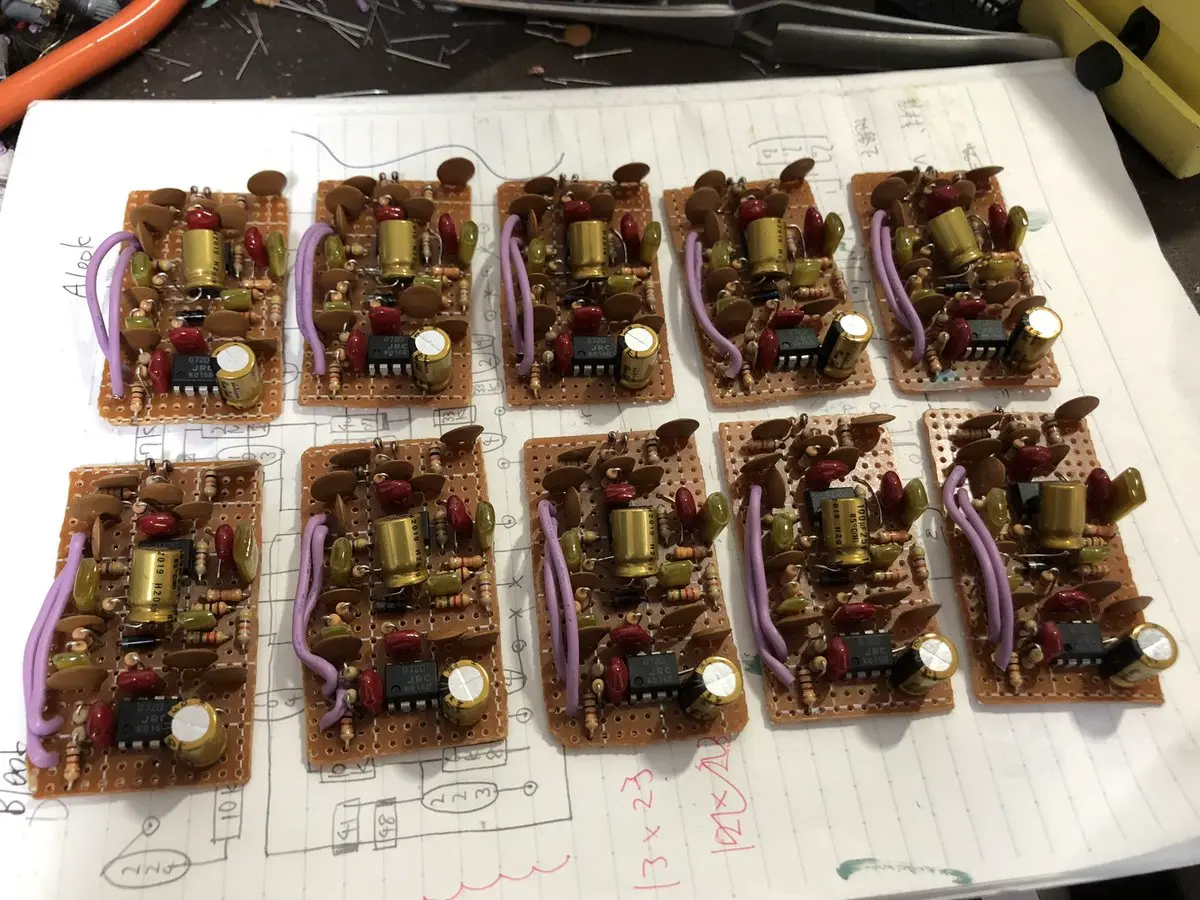
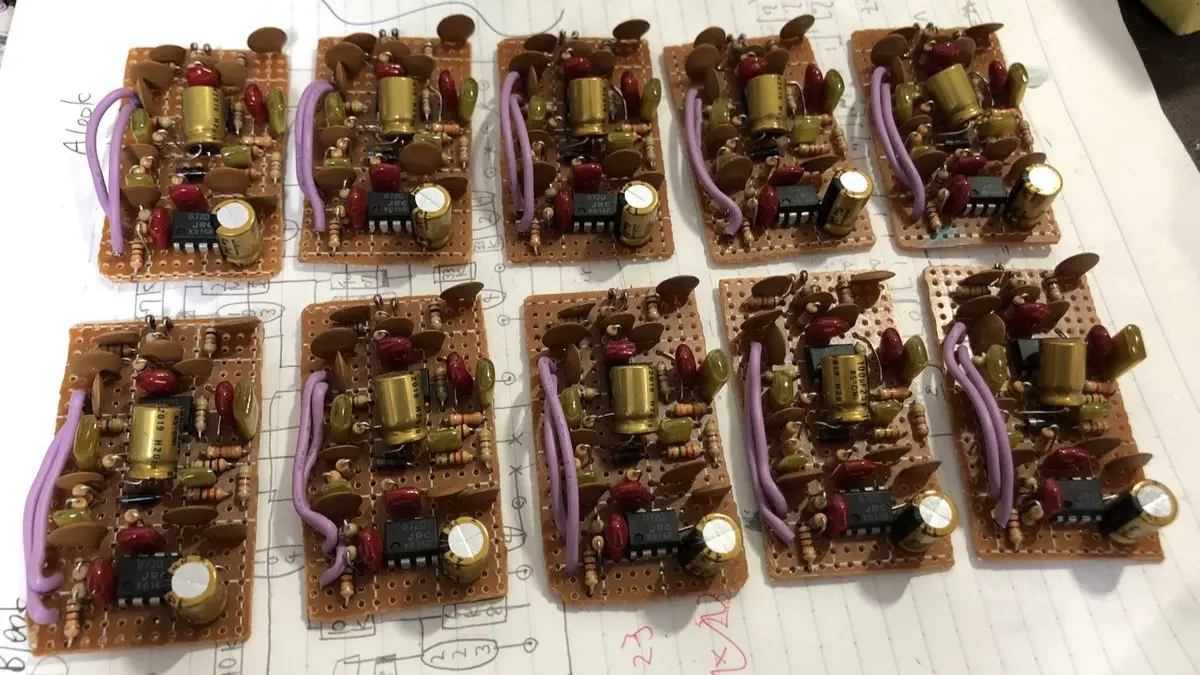
feat: いったん最後まで作成

diff --git a/1.makepedals01/04-outro.md b/1.makepedals01/04-outro.md
@@ -1,0 +1,69 @@
+---
+layout: two-cols
+hideInToc: true
+---
+
+::left::
+
+<div class="text-right">SDGs 999：ミニケースに真空管を載せよう</div>
+
+<br><br><br><br><br><br>
+
+# 音出し、あわよくば完成
+
+::right::
+
+<div style="display: flex; justify-content: flex-end;">
+  <img src="./images/my_tube.webp" width="90%"/>
+</div>
+
+---
+
+# 音出し
+
+<br>
+
+## 無事に鳴った人：まずはおめでとう🎉
+
+適宜ホットボンドで固めて、裏蓋にサインを書こう
+
+<br>
+
+## 鳴らなかった人：エフェクター作り本編のスタート😍
+
+テスターとワニ口クリップでデバッグしよう
+
+詳しくはエフェクター作ろ特論を受講してください
+
+---
+
+# お疲れ様でした
+
+<br>
+
+自分のはんだづけした小さな部品一つ一つを音が通って出ていって、
+
+さらにそれを演奏すると皆さまのお耳に入っていくのですごい
+
+大変アツくてワロタ　と常日頃より思っています
+
+<br>
+
+ハードウェアを作る楽しさが少しでも伝わったなら幸いです！
+
+---
+layout: two-cols
+hideInToc: true
+---
+
+::left::
+
+<br><br><br><br><br><br><br>
+
+# おしまい
+
+::right::
+
+<div style="display: flex; justify-content: flex-end;">
+  <img src="./images/goodbye.webp" width="100%"/>
+</div>

diff --git a/1.makepedals01/03-wiring.md b/1.makepedals01/03-wiring.md
@@ -1,0 +1,70 @@
+---
+layout: two-cols
+hideInToc: true
+---
+
+::left::
+
+<div class="text-right">きれいに配線しておいて良かった…の例</div>
+
+<br><br><br><br><br><br>
+
+# 組み付け・配線
+
+::right::
+
+<div style="display: flex; justify-content: flex-end;">
+  <img src="./images/my_hardoff.webp" width="90%"/>
+</div>
+
+---
+layout: two-cols
+---
+
+::left::
+
+# 組み付けの概要
+
+<br>
+
+今回の場合
+
+1. 基板、または可変抵抗
+2. LED
+3. DCジャック（⚠内側から締めます）
+4. フットスイッチ
+5. フォンジャック
+
+::right::
+
+実際の配線の写真
+
+どこからどこへ繋ぐか分かるように
+
+---
+layout: two-cols
+---
+
+# ハイセンスな配線のコツ
+
+<br>
+
+- 配線材をケチらないこと
+  - 長めに切って、少し弛ませると良し
+
+<br>
+<hr>
+<br>
+
+1. 被膜を剥く（ワイヤーストリッパーもどうぞ）
+2. 少し撚る
+3. 端子の穴に差し込む（アホ毛が出ないように注意）
+4. 差し込んだ向こう側ではんだづけ
+
+<br>
+
+予備はんだできる人は適宜どうぞ！
+
+::right::
+
+ここに写真

diff --git a/1.makepedals01/02-kiban.md b/1.makepedals01/02-kiban.md
@@ -5,9 +5,9 @@ hideInToc: true
 
 ::left::
 
-<div class="text-right">私の人生２作目、の基板 →</div>
+<div class="text-right">私の人生２作目、の基板</div>
 
-<br>
+<br><br><br><br><br><br>
 
 # まずは基板から
 
@@ -155,6 +155,9 @@ title: 知っておこう
 <br>
 
 <v-click>
+
+<hr>
+<br>
 
 ### レッツゴー
 

diff --git a/1.makepedals01/slides.md b/1.makepedals01/slides.md
@@ -27,7 +27,9 @@ hideInToc: true
 
 ::left::
 
-<div class="text-right">私の人生１作目 →</div>
+<div class="text-right">私の人生１作目 </div>
+
+<br>
 
 # 目次
 
@@ -45,4 +47,12 @@ src: ./01-intro.md
 
 ---
 src: ./02-kiban.md
+---
+
+---
+src: ./03-wiring.md
+---
+
+---
+src: ./04-outro.md
 ---

diff --git a/1.makepedals01/README.md b/1.makepedals01/README.md
@@ -8,3 +8,4 @@
 
 - エフェクター中身のスケルトン的な写真を撮って追加
 - DIYLCのスクショを追加
+- 組み付けの写真を追加
